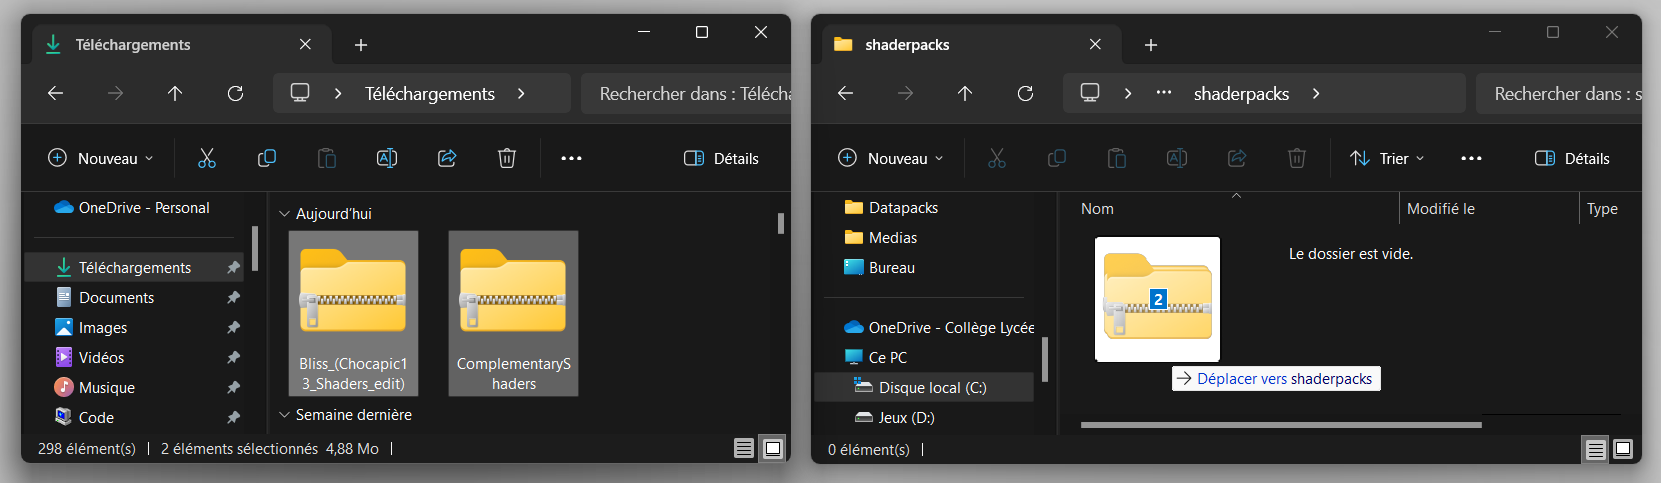
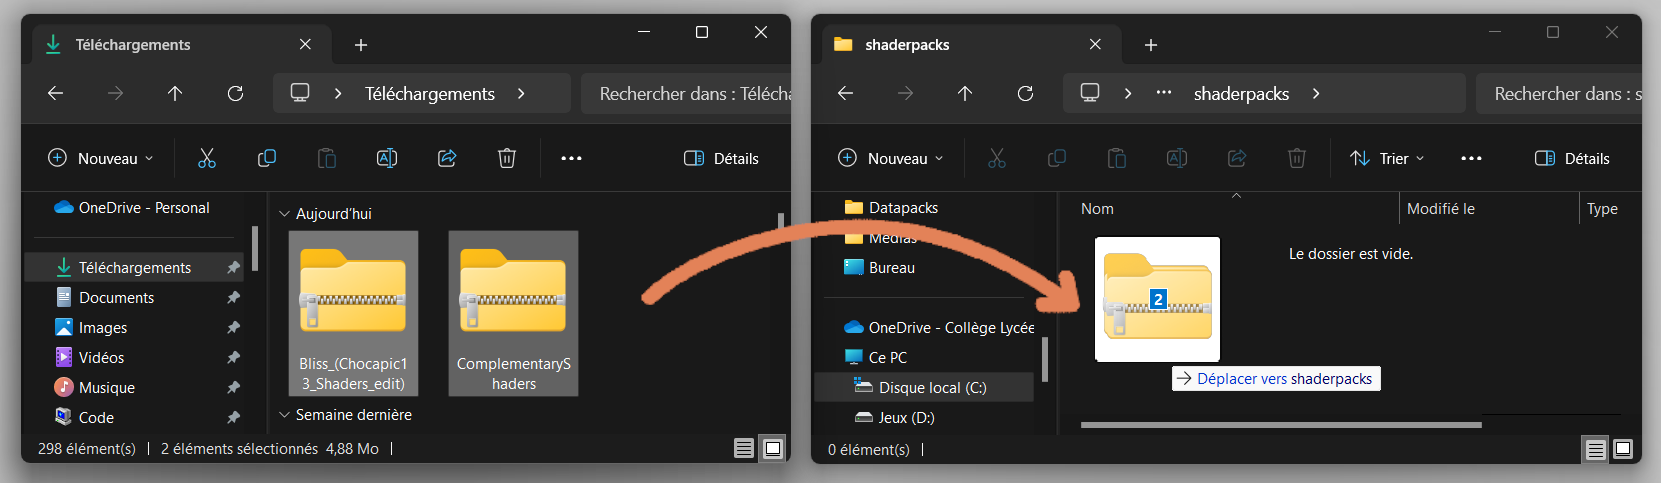
up

Changed region(s): [[0.3685, 0.4348, 0.6755, 0.6522]]

diff --git a/Minecraft/tuto/index.html b/Minecraft/tuto/index.html
@@ -151,7 +151,12 @@
                                 <img src="Screenshots/etape2-1-5.png">
                             </div>
                             <div class="hidden-content">
-                                <p>En cours de rédaction, bientôt disponible !</p>
+                                <p>👉 Ouvre TLauncher (Minecraft cracké), puis clique sur l'<span>icône de dossier</span> en bas à droite de l'application pour y retrouver les fichiers du jeu.</p> 
+                                <img src="Screenshots/etape2-3-1.png">
+                                <p>👉 Dans le nouvel Explorateur de fichiers ouvert (ayant ouvert le dossier "<span>.minecraft</span>"), entre dans le dossier "<span>mods</span>". Si aucun dossier "<span>mods</span>" n'existe, crées-en un.</p> 
+                                <img src="Screenshots/etape2-1-4.png">
+                                <p>👉 Colles-y (<span>[CTRL] + [V]</span>) tous les fichiers copiés précédemment.</p>
+                                <img src="Screenshots/etape2-1-5.png">
                             </div>
                         </div>
                     </div>
@@ -187,15 +192,15 @@
                     <p class="alert">⚠ Attention, ce qui suit est uniquement disponible sur minecraft [JE]* (Définition en haut), et recquiert une bonne machine pour fonctionner correctement (PC portable Gamer, Tour). Il t'est également conseillé d'avoir suivi l'étape 2 avant cette étape !</p>
                     <h4>Télécharge des Shaders</h4>
                     <p>👉 Les shaders permettent d'embellir ton jeu par une eau et des lumières naturelles et réalistes. Ils se présentent sous forme de dossiers, télécharges-en quelques-uns (tu pourras les tester en jeu) :</p> 
-                    <div class="flex-direction-row"><a class="download" target="_blank" href="Drop/ComplementaryUnbound_r5.2.2.zip">Complementary Shaders<span class="bubble">Recommandé</span></a>  <a class="preview-button preview-button-1 active" onclick="changePreview(this)">Voir</a></div>
-                    <div class="flex-direction-row"><a class="download" target="_blank" href="Drop/BSL_v8.2.09.zip">BSL Shaders</a> <a class="preview-button preview-button-2" onclick="changePreview(this)">Voir</a></div>
-                    <div class="flex-direction-row"><a class="download" target="_blank" href="Drop/Bliss_v2.0.4_(Chocapic13_Shaders_edit).zip">Bliss Shaders</a> <a class="preview-button preview-button-3" onclick="changePreview(this)">Voir</a></div>
-                    <div class="flex-direction-row"><a class="download" target="_blank" href="Drop/Solas Shader V2.1.zip">Solas Shader</a> <a class="preview-button preview-button-4" onclick="changePreview(this)">Voir</a></div>
-                    <div class="flex-direction-row"><a class="download" target="_blank" href="Drop/FastPBR_v1.1.zip">Fast PBR</a> <a class="preview-button preview-button-5" onclick="changePreview(this)">Voir</a></div>
+                    <div class="flex-direction-row"> <a class="preview-button preview-button-1 active" onclick="changePreview(this)">Voir</a> <a class="download" target="_blank" href="Drop/ComplementaryUnbound_r5.2.2.zip">Complementary<span class="bubble">Recommandé</span></a></div>
+                    <div class="flex-direction-row"> <a class="preview-button preview-button-2" onclick="changePreview(this)">Voir</a> <a class="download" target="_blank" href="Drop/BSL_v8.2.09.zip">BSL Shaders</a></div>
+                    <div class="flex-direction-row"> <a class="preview-button preview-button-3" onclick="changePreview(this)">Voir</a> <a class="download" target="_blank" href="Drop/Bliss_v2.0.4_(Chocapic13_Shaders_edit).zip">Bliss Shaders</a></div>
+                    <div class="flex-direction-row"> <a class="preview-button preview-button-4" onclick="changePreview(this)">Voir</a> <a class="download" target="_blank" href="Drop/Solas Shader V2.1.zip">Solas Shader</a></div>
+                    <div class="flex-direction-row"> <a class="preview-button preview-button-5" onclick="changePreview(this)">Voir</a> <a class="download" target="_blank" href="Drop/FastPBR_v1.1.zip">Fast PBR</a></div>
                     <p>⚡ Si ton jeu rame, fais un compromis et teste celui-ci : -beau, mais +léger</p>
-                    <div class="flex-direction-row"><a class="download" target="_blank" href="Drop/MakeUp-UltraFast-8.9f.zip">MakeUp UltraFast</a> <a class="preview-button preview-button-6" onclick="changePreview(this)">Voir</a></div>
-                    <h4 id="preview-image-name">Preview de Complementary Shaders</h4>
-                    <a class="preview-button preview-button-reset" onclick="changePreview(this)">Retirer les Shaders</a>
+                    <div class="flex-direction-row"> <a class="preview-button preview-button-6" onclick="changePreview(this)">Voir</a> <a class="download" target="_blank" href="Drop/MakeUp-UltraFast-8.9f.zip">MakeUp UltraFast</a></div>
+                    <h4 id="preview-image-name">Preview de Complementary</h4>
+                    <a class="preview-button-reset" onclick="changePreview(this)">Retirer les Shaders</a>
                     <img src="Screenshots/preview-complementary.png" class="shader-preview">
                     <h4>Télécharge le mod requis</h4>
                     <p>👉 Des mods sont des fichiers de code créés par la communauté, apportant des modifications au jeu. Ici, l'un d'entre est nécessaire au fonctionnement des Shaders :</p> 
@@ -238,7 +243,7 @@
                                 <img src="Screenshots/etape3-1-4.png">
                             </div>
                             <div class="hidden-content">
-                                <p>👉 Ouvre ton launcher, puis sélectionne ton instance créée. Clique sur "<span>Folder</span>" pour y retrouver les fichiers du jeu.</p> 
+                                <p>👉 Ouvre ton launcher, puis sélectionne ton instance créée. Par exemple sur Modrinth, clique sur "<span>Folder</span>" pour y retrouver les fichiers du jeu.</p> 
                                 <img src="Screenshots/etape2-2-1.png">
                                 <p>👉 Dans le nouvel Explorateur de fichiers ouvert, entre dans le dossier "<span>mods</span>".</p> 
                                 <img src="Screenshots/etape2-2-2.png">
@@ -250,7 +255,16 @@
                                 <img src="Screenshots/etape3-1-4.png">
                             </div>
                             <div class="hidden-content">
-                                <p>En cours de rédaction, bientôt disponible !</p>
+                                <p>👉 Ouvre TLauncher (Minecraft cracké), puis clique sur l'<span>icône de dossier</span> en bas à droite de l'application pour y retrouver les fichiers du jeu.</p> 
+                                <img src="Screenshots/etape2-3-1.png">
+                                <p>👉 Dans le nouvel Explorateur de fichiers ouvert (ayant ouvert le dossier "<span>.minecraft</span>"), entre dans le dossier "<span>mods</span>". Si aucun dossier "<span>mods</span>" n'existe, crées-en un.</p> 
+                                <img src="Screenshots/etape2-1-4.png">
+                                <p>👉 Glisses-y le Mod "<span>iris-mc</span>" depuis ton dossier de téléchargements.</p>
+                                <img src="Screenshots/etape3-1-2.png">
+                                <p>👉 Retourne en arrière, et entre dans le dossier "<span>shaderpacks</span>" (lui aussi situé dans le dossier "<span>.minecraft</span>" précédemment ouvert). Si aucun dossier "<span>shaderpacks</span>" n'existe, crées-en un.</p> 
+                                <img src="Screenshots/etape3-1-3.png">
+                                <p>👉 Glisses-y les dossiers compressés de Shaders téléchargés depuis ton dossier de téléchargements</p>
+                                <img src="Screenshots/etape3-1-4.png">
                             </div>
                         </div>
                     </div>
@@ -316,7 +330,15 @@
                     <p>🏆 Confirme, puis rejoins le monde ajouté !</p>
                 </div>
                 <div class="hidden-content">
-                    <p>En cours de rédaction, bientôt disponible !</p>
+                    <h4>Choisis la bonne version de Minecraft</h4>
+                    <p>❓ Pour rejoindre un monde, tu dois avoir la même version de Minecraft que les autres. Sur [JE], pour que les mods prennent effet (si tu en as installés à l'issue des étapes 2 & 3), tu dois choisir une version <span>Fabric</span> de minecraft.</p> 
+                    <p>👉 Ouvre Tlauncher (Minecraft cracké), et sélectionne la version "<span>Fabric</span> <span class="text-to-change text-to-change-version">x.x.x</span>", puis clique sur "<span>Installer</span>".</p> 
+                    <img src="Screenshots/etape4-3-1.png">
+                    <h4>Lance et Rejoins le monde</h4>
+                    <p>👉 Clique sur "<span>Entrer dans le jeu</span>". Une fois Minecraft lancé, clique sur "<span>Multijoueurs</span>" puis "<span>Ajouter un serveur</span>". Donne le nom de ton choix, puis dans le champ "<span>Adresse de serveur</span>", mets-y l'adresse suivante (copiable en cliquant) :</p>
+                    <a class="copy text-to-change text-to-change-ip" onclick="copyIp(this)">xxx.xxx.xxx</a>
+                    <img src="Screenshots/etape4-1-3.png">
+                    <p>🏆 Confirme, puis rejoins le monde ajouté !</p>
                 </div>
                 <div class="hidden-content">
                     <p>En cours de rédaction, bientôt disponible !</p>

diff --git a/Minecraft/tuto/script.js b/Minecraft/tuto/script.js
@@ -63,16 +63,14 @@ function changePreview(element) {
             each.classList.remove("active");
         }
     });
-    if (!element.className.match('preview-button-reset')) {
-        element.classList.add("active");
-    }
+    element.classList.add("active");
 
     if (element.className.match('preview-button-reset')) {
         previewImage.src = "Screenshots/preview-vanilla.png"
         previewTitle.innerHTML = "Preview sans Shaders"
     } else if (element.className.match('preview-button-1')) {
         previewImage.src = "Screenshots/preview-complementary.png"
-        previewTitle.innerHTML = "Preview de Complementary Shaders"
+        previewTitle.innerHTML = "Preview de Complementary"
     } else if (element.className.match('preview-button-2')) {
         previewImage.src = "Screenshots/preview-bsl.png"
         previewTitle.innerHTML = "Preview de BSL Shaders"
@@ -87,6 +85,6 @@ function changePreview(element) {
         previewTitle.innerHTML = "Preview de Fast PBR"
     } else if (element.className.match('preview-button-6')) {
         previewImage.src = "Screenshots/preview-makeup.png"
-        previewTitle.innerHTML = "Preview de MakeUp UltraFast"
+        previewTitle.innerHTML = "Preview de MakeUp"
     }
 }

diff --git a/Minecraft/tuto/style.css b/Minecraft/tuto/style.css
@@ -269,6 +269,10 @@ span.bubble {
     span.bubble {
         font-size: 0;
     }
+    a.preview-button {
+        font-size: 0;
+        padding-right: 0.5vh;
+    }
     span.bubble::before, a:hover span.bubble::before {
         background: fixed url(Medias/check.svg) no-repeat; 
         background-size: 100% 100%;
@@ -313,14 +317,14 @@ a {
     outline-width: 0.3vh;
     align-self: start;
 }
-a.preview-button:hover {
+a.preview-button:hover, a.preview-button-reset:hover {
     background-color: white;
     color: #e48860;
 }
-a.preview-button {
+a.preview-button, a.preview-button-reset {
     background-color: #e48860;
     outline: solid #e48860;
-    margin-left: 1.5vh;
+    margin-right: 1.5vh;
 }
 a.preview-button-reset {
     margin: 3vh 0 -5.3vh 1.3vh;
